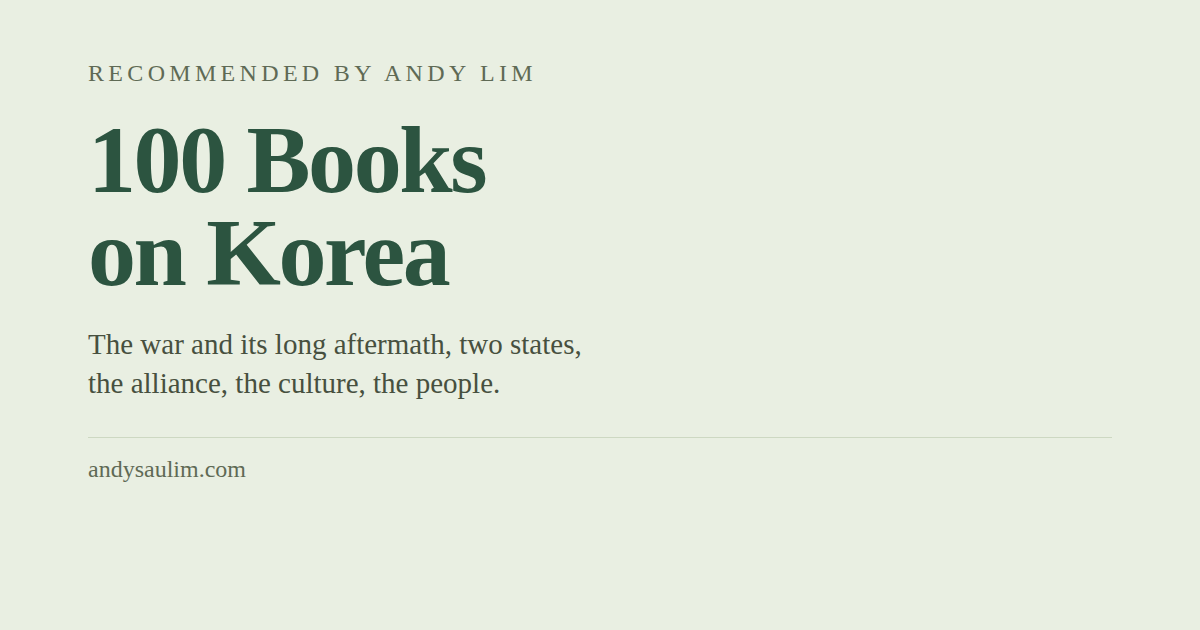
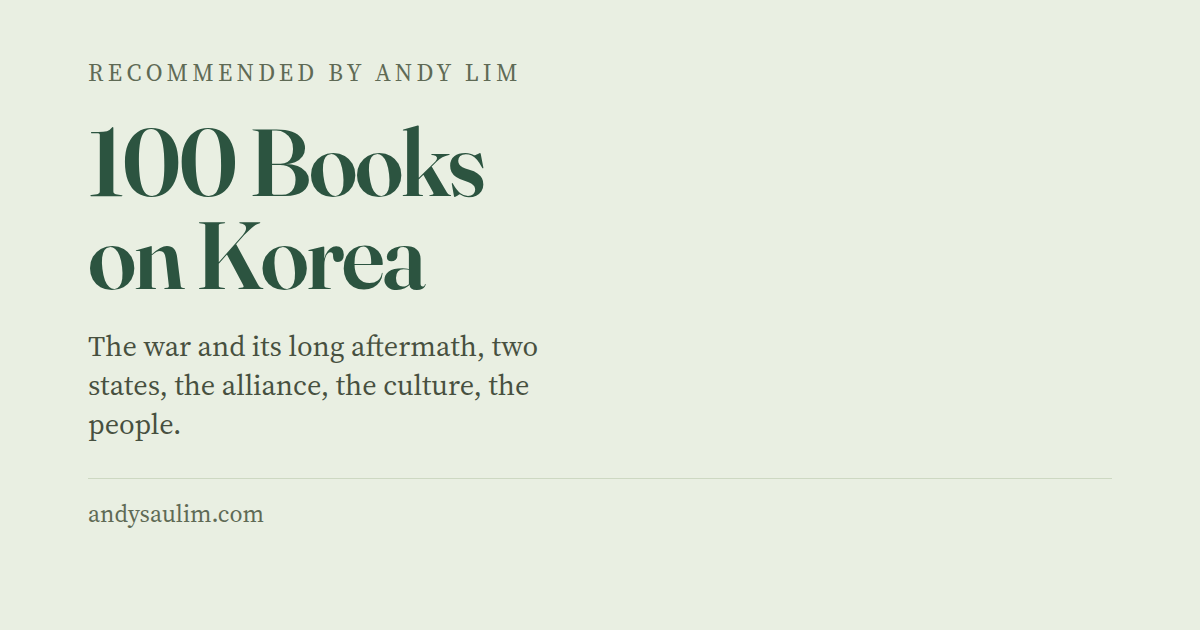
Embed the webfonts in the social card so it renders in Fraunces
Google Fonts became reachable from this environment, but the card still
came out in a system serif: headless Chrome does not fetch webfonts
reliably during a --screenshot run, and the earlier render proved it by
producing a byte-identical PNG once the host was reachable.

make_og.py now fetches the Google Fonts stylesheet itself, downloads
each woff2 and inlines them as data URIs before handing the card to
Chrome. That makes the face deterministic rather than dependent on what
the browser manages to pull mid-render, and the script says which of the
two paths it took. assets/og.png is regenerated and is now genuinely set
in Fraunces.

The page itself is unchanged: it still links Google Fonts normally,
which is right for production.

Claude-Session: https://claude.ai/code/session_017Tj793JTUcmj4ceub5WWRN

diff --git a/make_og.py b/make_og.py
@@ -6,18 +6,22 @@ install beyond a Chrome or Chromium binary.
 
     python3 make_og.py [--chrome /path/to/chrome]
 
-The card is set in Source Serif 4, the same face as the page, fetched
-from Google Fonts at render time. Without network access the shot still
-succeeds but falls back to a system serif — so look at the result, and
-re-run it somewhere with network access if the face is wrong.
+The card is set in Fraunces and Source Serif 4, the same faces as the
+page. Headless Chrome does not reliably fetch webfonts during a
+screenshot, so the fonts are downloaded here and embedded in the card as
+data URIs before it is rendered. Without network access the shot still
+succeeds, in a system serif, and the script says which happened.
 """
 
 import argparse
+import base64
 import pathlib
+import re
 import shutil
 import subprocess
 import sys
 import tempfile
+import urllib.request
 
 ROOT = pathlib.Path(__file__).parent
 OUT = ROOT / "assets" / "og.png"
@@ -28,6 +32,39 @@ CANDIDATES = [
     "/Applications/Google Chrome.app/Contents/MacOS/Google Chrome",
 ]
 
+FONT_CSS = ("https://fonts.googleapis.com/css2"
+            "?family=Fraunces:opsz,wght@9..144,400..700"
+            "&family=Source+Serif+4:opsz,wght@8..60,400..600&display=block")
+
+# Google serves woff2 only to a browser-ish UA; anything else gets ttf.
+UA = {"User-Agent": "Mozilla/5.0 (X11; Linux x86_64) AppleWebKit/537.36 "
+                    "(KHTML, like Gecko) Chrome/124.0 Safari/537.36"}
+
+
+def fetch(url, timeout=20):
+    return urllib.request.urlopen(
+        urllib.request.Request(url, headers=UA), timeout=timeout).read()
+
+
+def embedded_font_css():
+    """The Google Fonts stylesheet with every font file inlined as a data URI.
+
+    Returns None if the fonts cannot be fetched, so the caller can fall
+    back to a plain <link> and say the face may be wrong.
+    """
+    try:
+        css = fetch(FONT_CSS).decode()
+    except Exception:
+        return None
+
+    for url in sorted(set(re.findall(r"url\((https://[^)]+)\)", css))):
+        try:
+            blob = base64.b64encode(fetch(url)).decode()
+        except Exception:
+            return None
+        css = css.replace(url, "data:font/woff2;base64," + blob)
+    return css
+
 # Headless Chrome's --window-size counts browser chrome, so the visible
 # viewport is shorter than the image it writes and the leftover band is
 # filled with the page background. Anchoring anything to the bottom edge
@@ -35,7 +72,7 @@ CANDIDATES = [
 # whatever viewport it gets, on the same paper as the band.
 CARD = """<!doctype html>
 <meta charset="utf-8">
-<link href="https://fonts.googleapis.com/css2?family=Fraunces:opsz,wght@9..144,400..700&family=Source+Serif+4:opsz,wght@8..60,400..600&display=block" rel="stylesheet">
+__FONTS__
 <style>
   html, body { margin: 0; }
   body {
@@ -80,9 +117,15 @@ def main():
     chrome = find_chrome(args.chrome)
     OUT.parent.mkdir(parents=True, exist_ok=True)
 
+    fonts = embedded_font_css()
+    card_html = CARD.replace(
+        "__FONTS__",
+        "<style>\n" + fonts + "\n</style>" if fonts
+        else '<link href="' + FONT_CSS + '" rel="stylesheet">')
+
     with tempfile.TemporaryDirectory() as tmp:
         card = pathlib.Path(tmp) / "og.html"
-        card.write_text(CARD, encoding="utf-8")
+        card.write_text(card_html, encoding="utf-8")
         cmd = [
             chrome, "--headless", "--disable-gpu", "--no-sandbox",
             "--hide-scrollbars", "--force-device-scale-factor=1",
@@ -98,8 +141,9 @@ def main():
         sys.exit(f"chrome did not write the screenshot:\n{proc.stderr.strip()}")
 
     print(f"wrote {OUT.relative_to(ROOT)} ({OUT.stat().st_size:,} bytes)")
-    print("  Check the face: without network access to Google Fonts this "
-          "falls back to a system serif.")
+    print("  fonts embedded: Fraunces + Source Serif 4" if fonts else
+          "  WARNING: could not fetch the webfonts; the card fell back to a "
+          "system serif. Re-run with network access.")
 
 
 if __name__ == "__main__":
